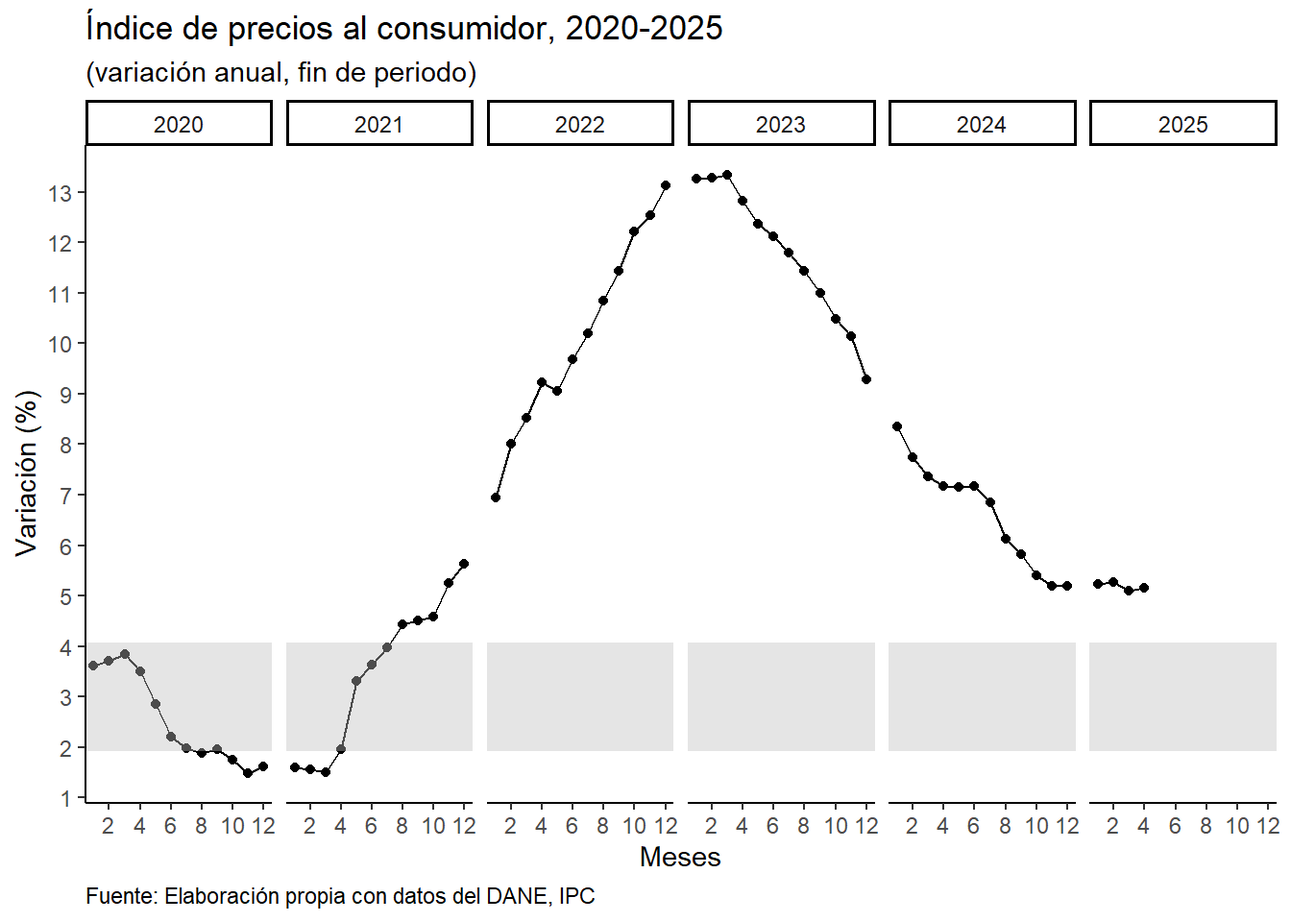
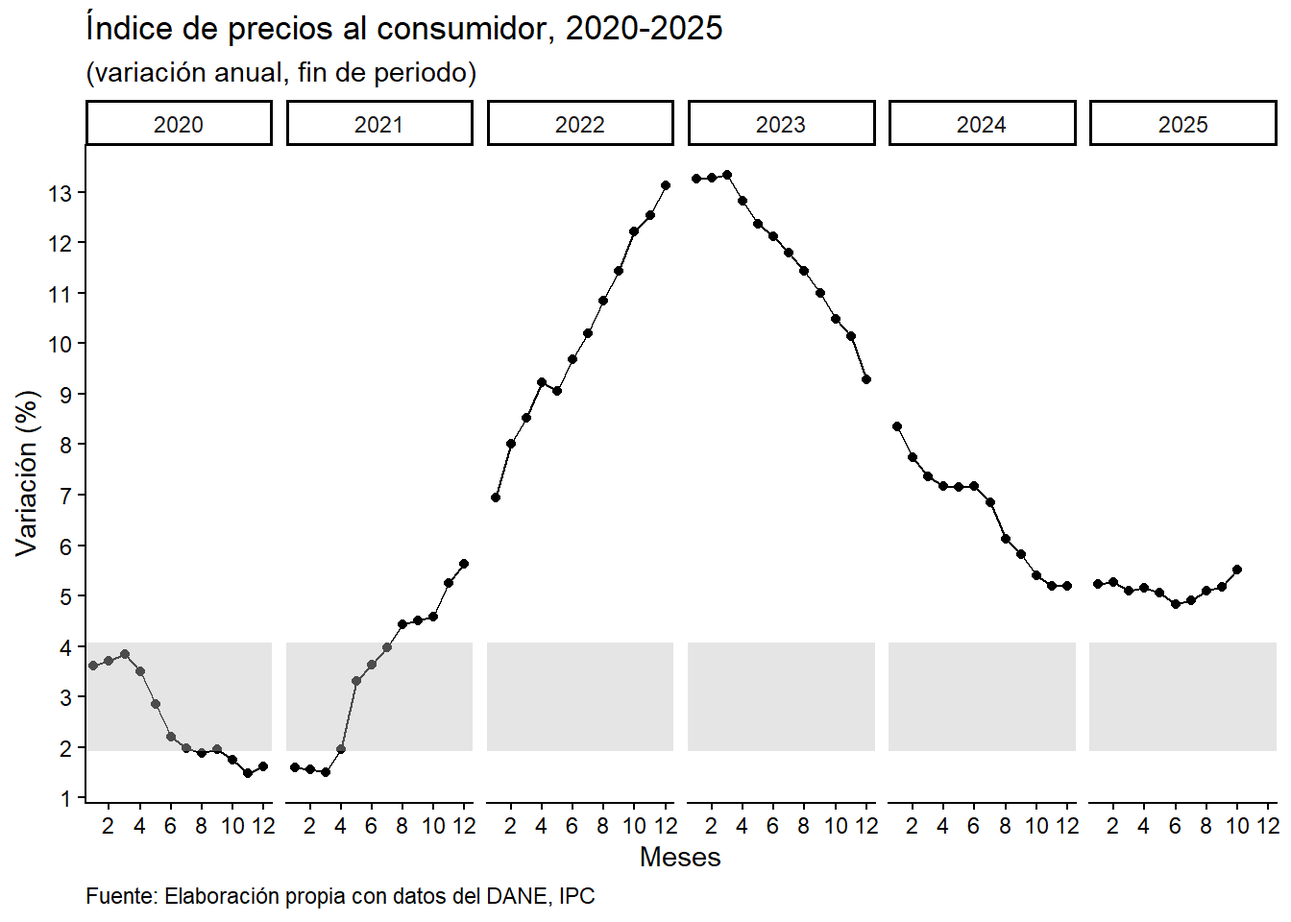
Publish site to docs/

diff --git a/docs/IPC_Colombia_anual.html b/docs/IPC_Colombia_anual.html
@@ -2,12 +2,12 @@
 <html xmlns="http://www.w3.org/1999/xhtml" lang="en" xml:lang="en"><head>
 
 <meta charset="utf-8">
-<meta name="generator" content="quarto-1.7.31">
+<meta name="generator" content="quarto-1.7.32">
 
 <meta name="viewport" content="width=device-width, initial-scale=1.0, user-scalable=yes">
 
 <meta name="author" content="Miguel Martinez">
-<meta name="dcterms.date" content="2025-06-04">
+<meta name="dcterms.date" content="2025-11-16">
 
 <title>CPI Colombia</title>
 <style>
@@ -72,7 +72,7 @@ pre > code.sourceCode > span > a:first-child::before { text-decoration: underlin
 <script src="site_libs/quarto-html/tippy.umd.min.js"></script>
 <script src="site_libs/quarto-html/anchor.min.js"></script>
 <link href="site_libs/quarto-html/tippy.css" rel="stylesheet">
-<link href="site_libs/quarto-html/quarto-syntax-highlighting-e1a5c8363afafaef2c763b6775fbf3ca.css" rel="stylesheet" id="quarto-text-highlighting-styles">
+<link href="site_libs/quarto-html/quarto-syntax-highlighting-37eea08aefeeee20ff55810ff984fec1.css" rel="stylesheet" id="quarto-text-highlighting-styles">
 <script src="site_libs/bootstrap/bootstrap.min.js"></script>
 <link href="site_libs/bootstrap/bootstrap-icons.css" rel="stylesheet">
 <link href="site_libs/bootstrap/bootstrap-dfb324f25d9b1687192fa8be62ac8f9c.min.css" rel="stylesheet" append-hash="true" id="quarto-bootstrap" data-mode="light">
@@ -156,7 +156,7 @@ pre > code.sourceCode > span > a:first-child::before { text-decoration: underlin
     <div>
     <div class="quarto-title-meta-heading">Published</div>
     <div class="quarto-title-meta-contents">
-      <p class="date">June 4, 2025</p>
+      <p class="date">November 16, 2025</p>
     </div>
   </div>
   
@@ -172,7 +172,8 @@ pre > code.sourceCode > span > a:first-child::before { text-decoration: underlin
 <p>The first step is to load the following libraries:</p>
 <div class="cell">
 <div class="sourceCode cell-code" id="cb1"><pre class="sourceCode r code-with-copy"><code class="sourceCode r"><span id="cb1-1"><a href="#cb1-1" aria-hidden="true" tabindex="-1"></a><span class="fu">library</span>(readxl)</span>
-<span id="cb1-2"><a href="#cb1-2" aria-hidden="true" tabindex="-1"></a><span class="fu">library</span>(tidyverse)</span></code><button title="Copy to Clipboard" class="code-copy-button"><i class="bi"></i></button></pre></div>
+<span id="cb1-2"><a href="#cb1-2" aria-hidden="true" tabindex="-1"></a><span class="fu">library</span>(tidyverse)</span>
+<span id="cb1-3"><a href="#cb1-3" aria-hidden="true" tabindex="-1"></a><span class="fu">library</span>(janitor)</span></code><button title="Copy to Clipboard" class="code-copy-button"><i class="bi"></i></button></pre></div>
 </div>
 <section id="load-data" class="level2">
 <h2 class="anchored" data-anchor-id="load-data">Load data</h2>
@@ -180,16 +181,16 @@ pre > code.sourceCode > span > a:first-child::before { text-decoration: underlin
 <div class="cell">
 <div class="sourceCode cell-code" id="cb2"><pre class="sourceCode r code-with-copy"><code class="sourceCode r"><span id="cb2-1"><a href="#cb2-1" aria-hidden="true" tabindex="-1"></a><span class="co"># Total inflation</span></span>
 <span id="cb2-2"><a href="#cb2-2" aria-hidden="true" tabindex="-1"></a></span>
-<span id="cb2-3"><a href="#cb2-3" aria-hidden="true" tabindex="-1"></a>df1 <span class="ot">=</span> readxl<span class="sc">::</span><span class="fu">read_excel</span>(<span class="st">"anex-IPC-Indices-abr2025.xlsx"</span>,</span>
+<span id="cb2-3"><a href="#cb2-3" aria-hidden="true" tabindex="-1"></a>df1 <span class="ot">=</span> readxl<span class="sc">::</span><span class="fu">read_excel</span>(<span class="st">"anex-IPC-Indices-oct2025.xlsx"</span>,</span>
 <span id="cb2-4"><a href="#cb2-4" aria-hidden="true" tabindex="-1"></a>                         <span class="at">sheet =</span> <span class="st">"IndicesIPC"</span>,</span>
 <span id="cb2-5"><a href="#cb2-5" aria-hidden="true" tabindex="-1"></a>                         <span class="at">range =</span> <span class="st">"A9:X21"</span>,</span>
 <span id="cb2-6"><a href="#cb2-6" aria-hidden="true" tabindex="-1"></a>                         <span class="at">col_names =</span> <span class="cn">TRUE</span>)</span>
 <span id="cb2-7"><a href="#cb2-7" aria-hidden="true" tabindex="-1"></a></span>
 <span id="cb2-8"><a href="#cb2-8" aria-hidden="true" tabindex="-1"></a><span class="co"># Core inflation</span></span>
 <span id="cb2-9"><a href="#cb2-9" aria-hidden="true" tabindex="-1"></a></span>
-<span id="cb2-10"><a href="#cb2-10" aria-hidden="true" tabindex="-1"></a>df2 <span class="ot">=</span> readxl<span class="sc">::</span><span class="fu">read_excel</span>(<span class="st">"anex-IPC-sinAlimentosRegulados-mar2025.xlsx"</span>,</span>
+<span id="cb2-10"><a href="#cb2-10" aria-hidden="true" tabindex="-1"></a>df2 <span class="ot">=</span> readxl<span class="sc">::</span><span class="fu">read_excel</span>(<span class="st">"anex-IPC-sinAlimentosRegulados-sep2025.xlsx"</span>,</span>
 <span id="cb2-11"><a href="#cb2-11" aria-hidden="true" tabindex="-1"></a>                         <span class="at">sheet =</span> <span class="st">"2"</span>,</span>
-<span id="cb2-12"><a href="#cb2-12" aria-hidden="true" tabindex="-1"></a>                         <span class="at">range =</span> <span class="st">"A7:F83"</span>,</span>
+<span id="cb2-12"><a href="#cb2-12" aria-hidden="true" tabindex="-1"></a>                         <span class="at">range =</span> <span class="st">"A7:F89"</span>,</span>
 <span id="cb2-13"><a href="#cb2-13" aria-hidden="true" tabindex="-1"></a>                         <span class="at">col_names =</span> <span class="cn">TRUE</span>)</span></code><button title="Copy to Clipboard" class="code-copy-button"><i class="bi"></i></button></pre></div>
 </div>
 </section>
@@ -200,10 +201,11 @@ pre > code.sourceCode > span > a:first-child::before { text-decoration: underlin
 <span id="cb3-2"><a href="#cb3-2" aria-hidden="true" tabindex="-1"></a></span>
 <span id="cb3-3"><a href="#cb3-3" aria-hidden="true" tabindex="-1"></a>df2 <span class="ot">=</span> df2[<span class="sc">-</span><span class="fu">c</span>(<span class="dv">1</span><span class="sc">:</span><span class="dv">12</span>), ] <span class="sc">|&gt;</span></span>
 <span id="cb3-4"><a href="#cb3-4" aria-hidden="true" tabindex="-1"></a>  dplyr<span class="sc">::</span><span class="fu">rename</span>(</span>
-<span id="cb3-5"><a href="#cb3-5" aria-hidden="true" tabindex="-1"></a>    <span class="st">`</span><span class="at">Variacion Mensual</span><span class="st">`</span> <span class="ot">=</span> <span class="dv">4</span>,</span>
-<span id="cb3-6"><a href="#cb3-6" aria-hidden="true" tabindex="-1"></a>    <span class="st">`</span><span class="at">Variacion Año corrido</span><span class="st">`</span> <span class="ot">=</span> <span class="dv">5</span>,</span>
-<span id="cb3-7"><a href="#cb3-7" aria-hidden="true" tabindex="-1"></a>    <span class="st">`</span><span class="at">Variacion Anual</span><span class="st">`</span> <span class="ot">=</span> <span class="dv">6</span>) <span class="sc">|&gt;</span> </span>
-<span id="cb3-8"><a href="#cb3-8" aria-hidden="true" tabindex="-1"></a>  dplyr<span class="sc">::</span><span class="fu">mutate_at</span>(<span class="fu">vars</span>(<span class="dv">4</span><span class="sc">:</span><span class="dv">6</span>), as.numeric)</span></code><button title="Copy to Clipboard" class="code-copy-button"><i class="bi"></i></button></pre></div>
+<span id="cb3-5"><a href="#cb3-5" aria-hidden="true" tabindex="-1"></a>    <span class="at">variacion_mensual =</span> <span class="dv">4</span>,</span>
+<span id="cb3-6"><a href="#cb3-6" aria-hidden="true" tabindex="-1"></a>    <span class="at">variacion_ano_corrido =</span> <span class="dv">5</span>,</span>
+<span id="cb3-7"><a href="#cb3-7" aria-hidden="true" tabindex="-1"></a>    <span class="at">variacion_anual =</span> <span class="dv">6</span>) <span class="sc">|&gt;</span></span>
+<span id="cb3-8"><a href="#cb3-8" aria-hidden="true" tabindex="-1"></a>  janitor<span class="sc">::</span><span class="fu">clean_names</span>() <span class="sc">|&gt;</span></span>
+<span id="cb3-9"><a href="#cb3-9" aria-hidden="true" tabindex="-1"></a>  dplyr<span class="sc">::</span><span class="fu">mutate_at</span>(<span class="fu">vars</span>(<span class="dv">4</span><span class="sc">:</span><span class="dv">6</span>), as.numeric)</span></code><button title="Copy to Clipboard" class="code-copy-button"><i class="bi"></i></button></pre></div>
 </div>
 </section>
 <section id="reshape-and-dtype-transformation" class="level2">
@@ -212,13 +214,14 @@ pre > code.sourceCode > span > a:first-child::before { text-decoration: underlin
 <div class="cell">
 <div class="sourceCode cell-code" id="cb4"><pre class="sourceCode r code-with-copy"><code class="sourceCode r"><span id="cb4-1"><a href="#cb4-1" aria-hidden="true" tabindex="-1"></a>df1 <span class="ot">=</span> df1 <span class="sc">|&gt;</span> </span>
 <span id="cb4-2"><a href="#cb4-2" aria-hidden="true" tabindex="-1"></a>  tidyr<span class="sc">::</span><span class="fu">pivot_longer</span>(<span class="at">cols =</span> <span class="st">`</span><span class="at">2003</span><span class="st">`</span><span class="sc">:</span><span class="st">`</span><span class="at">2025</span><span class="st">`</span>,</span>
-<span id="cb4-3"><a href="#cb4-3" aria-hidden="true" tabindex="-1"></a>                      <span class="at">names_to =</span> <span class="st">"Año"</span>) <span class="sc">|&gt;</span> </span>
-<span id="cb4-4"><a href="#cb4-4" aria-hidden="true" tabindex="-1"></a>  dplyr<span class="sc">::</span><span class="fu">mutate_at</span>(<span class="fu">vars</span>(Año), as.numeric)</span>
-<span id="cb4-5"><a href="#cb4-5" aria-hidden="true" tabindex="-1"></a></span>
-<span id="cb4-6"><a href="#cb4-6" aria-hidden="true" tabindex="-1"></a>df1</span></code><button title="Copy to Clipboard" class="code-copy-button"><i class="bi"></i></button></pre></div>
+<span id="cb4-3"><a href="#cb4-3" aria-hidden="true" tabindex="-1"></a>                      <span class="at">names_to =</span> <span class="st">"ano"</span>) <span class="sc">|&gt;</span></span>
+<span id="cb4-4"><a href="#cb4-4" aria-hidden="true" tabindex="-1"></a>  janitor<span class="sc">::</span><span class="fu">clean_names</span>() <span class="sc">|&gt;</span></span>
+<span id="cb4-5"><a href="#cb4-5" aria-hidden="true" tabindex="-1"></a>  dplyr<span class="sc">::</span><span class="fu">mutate_at</span>(<span class="fu">vars</span>(ano), as.numeric)</span>
+<span id="cb4-6"><a href="#cb4-6" aria-hidden="true" tabindex="-1"></a></span>
+<span id="cb4-7"><a href="#cb4-7" aria-hidden="true" tabindex="-1"></a>df1</span></code><button title="Copy to Clipboard" class="code-copy-button"><i class="bi"></i></button></pre></div>
 <div class="cell-output cell-output-stdout">
 <pre><code># A tibble: 276 × 3
-   Mes     Año value
+   mes     ano value
    &lt;chr&gt; &lt;dbl&gt; &lt;dbl&gt;
  1 Enero  2003  50.4
  2 Enero  2004  53.5
@@ -250,25 +253,25 @@ pre > code.sourceCode > span > a:first-child::before { text-decoration: underlin
 <div class="sourceCode cell-code" id="cb7"><pre class="sourceCode r code-with-copy"><code class="sourceCode r"><span id="cb7-1"><a href="#cb7-1" aria-hidden="true" tabindex="-1"></a>data <span class="ot">=</span> df1 <span class="sc">|&gt;</span></span>
 <span id="cb7-2"><a href="#cb7-2" aria-hidden="true" tabindex="-1"></a>  tidyr<span class="sc">::</span><span class="fu">drop_na</span>() <span class="sc">|&gt;</span> </span>
 <span id="cb7-3"><a href="#cb7-3" aria-hidden="true" tabindex="-1"></a>  dplyr<span class="sc">::</span><span class="fu">left_join</span>(df2,</span>
-<span id="cb7-4"><a href="#cb7-4" aria-hidden="true" tabindex="-1"></a>                   <span class="at">by =</span> <span class="fu">join_by</span>(Año, Mes))</span>
+<span id="cb7-4"><a href="#cb7-4" aria-hidden="true" tabindex="-1"></a>                   <span class="at">by =</span> <span class="fu">join_by</span>(ano, mes))</span>
 <span id="cb7-5"><a href="#cb7-5" aria-hidden="true" tabindex="-1"></a></span>
 <span id="cb7-6"><a href="#cb7-6" aria-hidden="true" tabindex="-1"></a>data</span></code><button title="Copy to Clipboard" class="code-copy-button"><i class="bi"></i></button></pre></div>
 <div class="cell-output cell-output-stdout">
-<pre><code># A tibble: 260 × 7
-   Mes     Año value `Número Índice` `Variacion Mensual` `Variacion Año corrido`
-   &lt;chr&gt; &lt;dbl&gt; &lt;dbl&gt;           &lt;dbl&gt;               &lt;dbl&gt;                   &lt;dbl&gt;
- 1 Enero  2004  6.19              NA                  NA                      NA
- 2 Enero  2005  5.44              NA                  NA                      NA
- 3 Enero  2006  4.55              NA                  NA                      NA
- 4 Enero  2007  4.71              NA                  NA                      NA
- 5 Enero  2008  6.00              NA                  NA                      NA
- 6 Enero  2009  7.17              NA                  NA                      NA
- 7 Enero  2010  2.11              NA                  NA                      NA
- 8 Enero  2011  3.39              NA                  NA                      NA
- 9 Enero  2012  3.55              NA                  NA                      NA
-10 Enero  2013  1.99              NA                  NA                      NA
-# ℹ 250 more rows
-# ℹ 1 more variable: `Variacion Anual` &lt;dbl&gt;</code></pre>
+<pre><code># A tibble: 272 × 7
+   mes     ano value numero_indice variacion_mensual variacion_ano_corrido
+   &lt;chr&gt; &lt;dbl&gt; &lt;dbl&gt;         &lt;dbl&gt;             &lt;dbl&gt;                 &lt;dbl&gt;
+ 1 Enero  2004  6.19            NA                NA                    NA
+ 2 Enero  2005  5.44            NA                NA                    NA
+ 3 Enero  2006  4.55            NA                NA                    NA
+ 4 Enero  2007  4.71            NA                NA                    NA
+ 5 Enero  2008  6.00            NA                NA                    NA
+ 6 Enero  2009  7.17            NA                NA                    NA
+ 7 Enero  2010  2.11            NA                NA                    NA
+ 8 Enero  2011  3.39            NA                NA                    NA
+ 9 Enero  2012  3.55            NA                NA                    NA
+10 Enero  2013  1.99            NA                NA                    NA
+# ℹ 262 more rows
+# ℹ 1 more variable: variacion_anual &lt;dbl&gt;</code></pre>
 </div>
 </div>
 </section>
@@ -277,15 +280,15 @@ pre > code.sourceCode > span > a:first-child::before { text-decoration: underlin
 <p>As before, we are reshaping the data to the <em>long</em> or <em>stacked</em> format:</p>
 <div class="cell">
 <div class="sourceCode cell-code" id="cb9"><pre class="sourceCode r code-with-copy"><code class="sourceCode r"><span id="cb9-1"><a href="#cb9-1" aria-hidden="true" tabindex="-1"></a>data <span class="ot">=</span> data <span class="sc">|&gt;</span> </span>
-<span id="cb9-2"><a href="#cb9-2" aria-hidden="true" tabindex="-1"></a>  dplyr<span class="sc">::</span><span class="fu">select</span>(Mes, Año, value, <span class="st">`</span><span class="at">Variacion Anual</span><span class="st">`</span>) <span class="sc">|&gt;</span> </span>
+<span id="cb9-2"><a href="#cb9-2" aria-hidden="true" tabindex="-1"></a>  dplyr<span class="sc">::</span><span class="fu">select</span>(mes, ano, value, variacion_anual) <span class="sc">|&gt;</span> </span>
 <span id="cb9-3"><a href="#cb9-3" aria-hidden="true" tabindex="-1"></a>  dplyr<span class="sc">::</span><span class="fu">rename</span>(</span>
-<span id="cb9-4"><a href="#cb9-4" aria-hidden="true" tabindex="-1"></a>     <span class="at">Inflacion_total =</span> value,</span>
-<span id="cb9-5"><a href="#cb9-5" aria-hidden="true" tabindex="-1"></a>     <span class="at">Inflacion_core =</span> <span class="st">`</span><span class="at">Variacion Anual</span><span class="st">`</span>) <span class="sc">|&gt;</span> </span>
+<span id="cb9-4"><a href="#cb9-4" aria-hidden="true" tabindex="-1"></a>     <span class="at">inflacion_total =</span> value,</span>
+<span id="cb9-5"><a href="#cb9-5" aria-hidden="true" tabindex="-1"></a>     <span class="at">inflacion_core =</span> variacion_anual) <span class="sc">|&gt;</span> </span>
 <span id="cb9-6"><a href="#cb9-6" aria-hidden="true" tabindex="-1"></a>  tidyr<span class="sc">::</span><span class="fu">pivot_longer</span>(<span class="at">cols =</span> <span class="dv">3</span><span class="sc">:</span><span class="dv">4</span>,</span>
-<span id="cb9-7"><a href="#cb9-7" aria-hidden="true" tabindex="-1"></a>                      <span class="at">names_to =</span> <span class="st">"Inflation_type"</span>,</span>
+<span id="cb9-7"><a href="#cb9-7" aria-hidden="true" tabindex="-1"></a>                      <span class="at">names_to =</span> <span class="st">"inflation_type"</span>,</span>
 <span id="cb9-8"><a href="#cb9-8" aria-hidden="true" tabindex="-1"></a>                      <span class="at">values_to =</span> <span class="st">"value"</span>) <span class="sc">|&gt;</span> </span>
 <span id="cb9-9"><a href="#cb9-9" aria-hidden="true" tabindex="-1"></a>  dplyr<span class="sc">::</span><span class="fu">mutate</span>(</span>
-<span id="cb9-10"><a href="#cb9-10" aria-hidden="true" tabindex="-1"></a>    <span class="at">Mes =</span> <span class="fu">recode</span>(Mes,</span>
+<span id="cb9-10"><a href="#cb9-10" aria-hidden="true" tabindex="-1"></a>    <span class="at">mes =</span> <span class="fu">recode</span>(mes,</span>
 <span id="cb9-11"><a href="#cb9-11" aria-hidden="true" tabindex="-1"></a>                 <span class="st">"Enero"</span> <span class="ot">=</span> <span class="dv">01</span>, <span class="st">"Febrero"</span> <span class="ot">=</span> <span class="dv">02</span>,</span>
 <span id="cb9-12"><a href="#cb9-12" aria-hidden="true" tabindex="-1"></a>                 <span class="st">"Marzo"</span> <span class="ot">=</span> <span class="dv">03</span>, <span class="st">"Abril"</span> <span class="ot">=</span> <span class="dv">04</span>,</span>
 <span id="cb9-13"><a href="#cb9-13" aria-hidden="true" tabindex="-1"></a>                 <span class="st">"Mayo"</span> <span class="ot">=</span> <span class="dv">05</span>, <span class="st">"Junio"</span> <span class="ot">=</span> <span class="dv">06</span>,</span>
@@ -295,20 +298,20 @@ pre > code.sourceCode > span > a:first-child::before { text-decoration: underlin
 <span id="cb9-17"><a href="#cb9-17" aria-hidden="true" tabindex="-1"></a></span>
 <span id="cb9-18"><a href="#cb9-18" aria-hidden="true" tabindex="-1"></a>data</span></code><button title="Copy to Clipboard" class="code-copy-button"><i class="bi"></i></button></pre></div>
 <div class="cell-output cell-output-stdout">
-<pre><code># A tibble: 520 × 4
-     Mes   Año Inflation_type  value
+<pre><code># A tibble: 544 × 4
+     mes   ano inflation_type  value
    &lt;dbl&gt; &lt;dbl&gt; &lt;chr&gt;           &lt;dbl&gt;
- 1     1  2004 Inflacion_total  6.19
- 2     1  2004 Inflacion_core  NA   
- 3     1  2005 Inflacion_total  5.44
- 4     1  2005 Inflacion_core  NA   
- 5     1  2006 Inflacion_total  4.55
- 6     1  2006 Inflacion_core  NA   
- 7     1  2007 Inflacion_total  4.71
- 8     1  2007 Inflacion_core  NA   
- 9     1  2008 Inflacion_total  6.00
-10     1  2008 Inflacion_core  NA   
-# ℹ 510 more rows</code></pre>
+ 1     1  2004 inflacion_total  6.19
+ 2     1  2004 inflacion_core  NA   
+ 3     1  2005 inflacion_total  5.44
+ 4     1  2005 inflacion_core  NA   
+ 5     1  2006 inflacion_total  4.55
+ 6     1  2006 inflacion_core  NA   
+ 7     1  2007 inflacion_total  4.71
+ 8     1  2007 inflacion_core  NA   
+ 9     1  2008 inflacion_total  6.00
+10     1  2008 inflacion_core  NA   
+# ℹ 534 more rows</code></pre>
 </div>
 </div>
 </section>
@@ -318,7 +321,7 @@ pre > code.sourceCode > span > a:first-child::before { text-decoration: underlin
 <div class="sourceCode cell-code" id="cb11"><pre class="sourceCode r code-with-copy"><code class="sourceCode r"><span id="cb11-1"><a href="#cb11-1" aria-hidden="true" tabindex="-1"></a><span class="co"># We filter the data from 2020</span></span>
 <span id="cb11-2"><a href="#cb11-2" aria-hidden="true" tabindex="-1"></a></span>
 <span id="cb11-3"><a href="#cb11-3" aria-hidden="true" tabindex="-1"></a>data <span class="ot">=</span> data <span class="sc">|&gt;</span> </span>
-<span id="cb11-4"><a href="#cb11-4" aria-hidden="true" tabindex="-1"></a>  dplyr<span class="sc">::</span><span class="fu">filter</span>(Año <span class="sc">&gt;=</span> <span class="dv">2020</span>)</span></code><button title="Copy to Clipboard" class="code-copy-button"><i class="bi"></i></button></pre></div>
+<span id="cb11-4"><a href="#cb11-4" aria-hidden="true" tabindex="-1"></a>  dplyr<span class="sc">::</span><span class="fu">filter</span>(ano <span class="sc">&gt;=</span> <span class="dv">2020</span>)</span></code><button title="Copy to Clipboard" class="code-copy-button"><i class="bi"></i></button></pre></div>
 </div>
 </section>
 <section id="total-inflation" class="level2">
@@ -327,10 +330,10 @@ pre > code.sourceCode > span > a:first-child::before { text-decoration: underlin
 <div class="sourceCode cell-code" id="cb12"><pre class="sourceCode r code-with-copy"><code class="sourceCode r"><span id="cb12-1"><a href="#cb12-1" aria-hidden="true" tabindex="-1"></a><span class="co"># Before we need to rename, filter, and transform 'Mes' in df1</span></span>
 <span id="cb12-2"><a href="#cb12-2" aria-hidden="true" tabindex="-1"></a></span>
 <span id="cb12-3"><a href="#cb12-3" aria-hidden="true" tabindex="-1"></a>df1 <span class="ot">=</span> df1 <span class="sc">|&gt;</span> </span>
-<span id="cb12-4"><a href="#cb12-4" aria-hidden="true" tabindex="-1"></a>  dplyr<span class="sc">::</span><span class="fu">rename</span>(<span class="at">Inflacion_total =</span> value) <span class="sc">|&gt;</span> </span>
-<span id="cb12-5"><a href="#cb12-5" aria-hidden="true" tabindex="-1"></a>  dplyr<span class="sc">::</span><span class="fu">filter</span>(Año <span class="sc">&gt;=</span> <span class="dv">2020</span>) <span class="sc">|&gt;</span> </span>
+<span id="cb12-4"><a href="#cb12-4" aria-hidden="true" tabindex="-1"></a>  dplyr<span class="sc">::</span><span class="fu">rename</span>(<span class="at">inflacion_total =</span> value) <span class="sc">|&gt;</span> </span>
+<span id="cb12-5"><a href="#cb12-5" aria-hidden="true" tabindex="-1"></a>  dplyr<span class="sc">::</span><span class="fu">filter</span>(ano <span class="sc">&gt;=</span> <span class="dv">2020</span>) <span class="sc">|&gt;</span> </span>
 <span id="cb12-6"><a href="#cb12-6" aria-hidden="true" tabindex="-1"></a>  dplyr<span class="sc">::</span><span class="fu">mutate</span>(</span>
-<span id="cb12-7"><a href="#cb12-7" aria-hidden="true" tabindex="-1"></a>    <span class="at">Mes =</span> <span class="fu">recode</span>(Mes,</span>
+<span id="cb12-7"><a href="#cb12-7" aria-hidden="true" tabindex="-1"></a>    <span class="at">mes =</span> <span class="fu">recode</span>(mes,</span>
 <span id="cb12-8"><a href="#cb12-8" aria-hidden="true" tabindex="-1"></a>                 <span class="st">"Enero"</span> <span class="ot">=</span> <span class="dv">01</span>, <span class="st">"Febrero"</span> <span class="ot">=</span> <span class="dv">02</span>,</span>
 <span id="cb12-9"><a href="#cb12-9" aria-hidden="true" tabindex="-1"></a>                 <span class="st">"Marzo"</span> <span class="ot">=</span> <span class="dv">03</span>, <span class="st">"Abril"</span> <span class="ot">=</span> <span class="dv">04</span>,</span>
 <span id="cb12-10"><a href="#cb12-10" aria-hidden="true" tabindex="-1"></a>                 <span class="st">"Mayo"</span> <span class="ot">=</span> <span class="dv">05</span>, <span class="st">"Junio"</span> <span class="ot">=</span> <span class="dv">06</span>,</span>
@@ -342,11 +345,11 @@ pre > code.sourceCode > span > a:first-child::before { text-decoration: underlin
 <div class="sourceCode cell-code" id="cb13"><pre class="sourceCode r code-with-copy"><code class="sourceCode r"><span id="cb13-1"><a href="#cb13-1" aria-hidden="true" tabindex="-1"></a>shadedarea <span class="ot">&lt;-</span> <span class="dv">3</span>  <span class="co">#Targeting inflation by Colombian Central bank</span></span>
 <span id="cb13-2"><a href="#cb13-2" aria-hidden="true" tabindex="-1"></a></span>
 <span id="cb13-3"><a href="#cb13-3" aria-hidden="true" tabindex="-1"></a>df1 <span class="sc">|&gt;</span> </span>
-<span id="cb13-4"><a href="#cb13-4" aria-hidden="true" tabindex="-1"></a><span class="fu">ggplot</span>(<span class="fu">aes</span>(<span class="at">x =</span> Mes, <span class="at">y =</span> Inflacion_total)) <span class="sc">+</span></span>
+<span id="cb13-4"><a href="#cb13-4" aria-hidden="true" tabindex="-1"></a><span class="fu">ggplot</span>(<span class="fu">aes</span>(<span class="at">x =</span> mes, <span class="at">y =</span> inflacion_total)) <span class="sc">+</span></span>
 <span id="cb13-5"><a href="#cb13-5" aria-hidden="true" tabindex="-1"></a>  <span class="fu">geom_point</span>() <span class="sc">+</span></span>
 <span id="cb13-6"><a href="#cb13-6" aria-hidden="true" tabindex="-1"></a>  <span class="fu">geom_line</span>() <span class="sc">+</span></span>
 <span id="cb13-7"><a href="#cb13-7" aria-hidden="true" tabindex="-1"></a>  <span class="fu">geom_hline</span>(<span class="at">yintercept =</span> shadedarea, <span class="at">color =</span> <span class="st">"grey"</span>, <span class="at">lwd =</span> <span class="dv">20</span>, <span class="at">alpha =</span> <span class="fl">0.4</span>) <span class="sc">+</span></span>
-<span id="cb13-8"><a href="#cb13-8" aria-hidden="true" tabindex="-1"></a>  <span class="fu">facet_grid</span>( . <span class="sc">~</span> Año) <span class="sc">+</span></span>
+<span id="cb13-8"><a href="#cb13-8" aria-hidden="true" tabindex="-1"></a>  <span class="fu">facet_grid</span>( . <span class="sc">~</span> ano) <span class="sc">+</span></span>
 <span id="cb13-9"><a href="#cb13-9" aria-hidden="true" tabindex="-1"></a>  <span class="fu">scale_x_continuous</span>(<span class="at">breaks =</span> <span class="fu">seq</span>(<span class="dv">0</span>,<span class="dv">12</span>, <span class="at">by=</span><span class="dv">2</span>)) <span class="sc">+</span></span>
 <span id="cb13-10"><a href="#cb13-10" aria-hidden="true" tabindex="-1"></a>  <span class="fu">scale_y_continuous</span>(<span class="at">breaks =</span> <span class="fu">seq</span>(<span class="dv">0</span>,<span class="dv">15</span>, <span class="at">by=</span><span class="dv">1</span>)) <span class="sc">+</span></span>
 <span id="cb13-11"><a href="#cb13-11" aria-hidden="true" tabindex="-1"></a>  <span class="fu">theme_classic</span>() <span class="sc">+</span></span>
@@ -372,11 +375,11 @@ pre > code.sourceCode > span > a:first-child::before { text-decoration: underlin
 <div class="sourceCode cell-code" id="cb14"><pre class="sourceCode r code-with-copy"><code class="sourceCode r"><span id="cb14-1"><a href="#cb14-1" aria-hidden="true" tabindex="-1"></a><span class="co"># First we need to select, rename, filter, and transform 'Mes' in df2</span></span>
 <span id="cb14-2"><a href="#cb14-2" aria-hidden="true" tabindex="-1"></a></span>
 <span id="cb14-3"><a href="#cb14-3" aria-hidden="true" tabindex="-1"></a>df2 <span class="ot">=</span> df2 <span class="sc">|&gt;</span></span>
-<span id="cb14-4"><a href="#cb14-4" aria-hidden="true" tabindex="-1"></a>  dplyr<span class="sc">::</span><span class="fu">select</span>(Año, Mes, <span class="st">`</span><span class="at">Variacion Anual</span><span class="st">`</span>) <span class="sc">|&gt;</span> </span>
-<span id="cb14-5"><a href="#cb14-5" aria-hidden="true" tabindex="-1"></a>  dplyr<span class="sc">::</span><span class="fu">rename</span>(<span class="at">Inflacion_core =</span> <span class="st">`</span><span class="at">Variacion Anual</span><span class="st">`</span>) <span class="sc">|&gt;</span> </span>
-<span id="cb14-6"><a href="#cb14-6" aria-hidden="true" tabindex="-1"></a>  dplyr<span class="sc">::</span><span class="fu">filter</span>(Año <span class="sc">&gt;=</span> <span class="dv">2020</span>) <span class="sc">|&gt;</span> </span>
+<span id="cb14-4"><a href="#cb14-4" aria-hidden="true" tabindex="-1"></a>  dplyr<span class="sc">::</span><span class="fu">select</span>(ano, mes, variacion_anual) <span class="sc">|&gt;</span> </span>
+<span id="cb14-5"><a href="#cb14-5" aria-hidden="true" tabindex="-1"></a>  dplyr<span class="sc">::</span><span class="fu">rename</span>(<span class="at">inflacion_core =</span> variacion_anual) <span class="sc">|&gt;</span> </span>
+<span id="cb14-6"><a href="#cb14-6" aria-hidden="true" tabindex="-1"></a>  dplyr<span class="sc">::</span><span class="fu">filter</span>(ano <span class="sc">&gt;=</span> <span class="dv">2020</span>) <span class="sc">|&gt;</span> </span>
 <span id="cb14-7"><a href="#cb14-7" aria-hidden="true" tabindex="-1"></a>  dplyr<span class="sc">::</span><span class="fu">mutate</span>(</span>
-<span id="cb14-8"><a href="#cb14-8" aria-hidden="true" tabindex="-1"></a>    <span class="at">Mes =</span> <span class="fu">recode</span>(Mes,</span>
+<span id="cb14-8"><a href="#cb14-8" aria-hidden="true" tabindex="-1"></a>    <span class="at">mes =</span> <span class="fu">recode</span>(mes,</span>
 <span id="cb14-9"><a href="#cb14-9" aria-hidden="true" tabindex="-1"></a>                 <span class="st">"Enero"</span> <span class="ot">=</span> <span class="dv">01</span>, <span class="st">"Febrero"</span> <span class="ot">=</span> <span class="dv">02</span>,</span>
 <span id="cb14-10"><a href="#cb14-10" aria-hidden="true" tabindex="-1"></a>                 <span class="st">"Marzo"</span> <span class="ot">=</span> <span class="dv">03</span>, <span class="st">"Abril"</span> <span class="ot">=</span> <span class="dv">04</span>,</span>
 <span id="cb14-11"><a href="#cb14-11" aria-hidden="true" tabindex="-1"></a>                 <span class="st">"Mayo"</span> <span class="ot">=</span> <span class="dv">05</span>, <span class="st">"Junio"</span> <span class="ot">=</span> <span class="dv">06</span>,</span>
@@ -388,11 +391,11 @@ pre > code.sourceCode > span > a:first-child::before { text-decoration: underlin
 <div class="sourceCode cell-code" id="cb15"><pre class="sourceCode r code-with-copy"><code class="sourceCode r"><span id="cb15-1"><a href="#cb15-1" aria-hidden="true" tabindex="-1"></a>shadedarea <span class="ot">&lt;-</span> <span class="dv">3</span>  <span class="co">#Targeting inflation by Colombian Central bank</span></span>
 <span id="cb15-2"><a href="#cb15-2" aria-hidden="true" tabindex="-1"></a></span>
 <span id="cb15-3"><a href="#cb15-3" aria-hidden="true" tabindex="-1"></a>df2 <span class="sc">|&gt;</span> </span>
-<span id="cb15-4"><a href="#cb15-4" aria-hidden="true" tabindex="-1"></a><span class="fu">ggplot</span>(<span class="fu">aes</span>(<span class="at">x =</span> Mes, <span class="at">y =</span> Inflacion_core)) <span class="sc">+</span></span>
+<span id="cb15-4"><a href="#cb15-4" aria-hidden="true" tabindex="-1"></a><span class="fu">ggplot</span>(<span class="fu">aes</span>(<span class="at">x =</span> mes, <span class="at">y =</span> inflacion_core)) <span class="sc">+</span></span>
 <span id="cb15-5"><a href="#cb15-5" aria-hidden="true" tabindex="-1"></a>  <span class="fu">geom_point</span>() <span class="sc">+</span></span>
 <span id="cb15-6"><a href="#cb15-6" aria-hidden="true" tabindex="-1"></a>  <span class="fu">geom_line</span>() <span class="sc">+</span></span>
 <span id="cb15-7"><a href="#cb15-7" aria-hidden="true" tabindex="-1"></a>  <span class="fu">geom_hline</span>(<span class="at">yintercept =</span> shadedarea, <span class="at">color =</span> <span class="st">"grey"</span>, <span class="at">lwd =</span> <span class="dv">22</span>, <span class="at">alpha =</span> <span class="fl">0.4</span>) <span class="sc">+</span></span>
-<span id="cb15-8"><a href="#cb15-8" aria-hidden="true" tabindex="-1"></a>  <span class="fu">facet_grid</span>( . <span class="sc">~</span> Año) <span class="sc">+</span></span>
+<span id="cb15-8"><a href="#cb15-8" aria-hidden="true" tabindex="-1"></a>  <span class="fu">facet_grid</span>( . <span class="sc">~</span> ano) <span class="sc">+</span></span>
 <span id="cb15-9"><a href="#cb15-9" aria-hidden="true" tabindex="-1"></a>  <span class="fu">scale_x_continuous</span>(<span class="at">breaks =</span> <span class="fu">seq</span>(<span class="dv">0</span>,<span class="dv">12</span>, <span class="at">by=</span><span class="dv">2</span>)) <span class="sc">+</span></span>
 <span id="cb15-10"><a href="#cb15-10" aria-hidden="true" tabindex="-1"></a>  <span class="fu">scale_y_continuous</span>(<span class="at">breaks =</span> <span class="fu">seq</span>(<span class="dv">0</span>,<span class="dv">12</span>, <span class="at">by=</span><span class="dv">1</span>)) <span class="sc">+</span></span>
 <span id="cb15-11"><a href="#cb15-11" aria-hidden="true" tabindex="-1"></a>  <span class="fu">theme_classic</span>() <span class="sc">+</span></span>
@@ -418,11 +421,11 @@ pre > code.sourceCode > span > a:first-child::before { text-decoration: underlin
 <div class="sourceCode cell-code" id="cb16"><pre class="sourceCode r code-with-copy"><code class="sourceCode r"><span id="cb16-1"><a href="#cb16-1" aria-hidden="true" tabindex="-1"></a>shadedarea <span class="ot">&lt;-</span> <span class="dv">3</span>  <span class="co">#Targeting inflation by Colombian Central bank</span></span>
 <span id="cb16-2"><a href="#cb16-2" aria-hidden="true" tabindex="-1"></a></span>
 <span id="cb16-3"><a href="#cb16-3" aria-hidden="true" tabindex="-1"></a>data <span class="sc">|&gt;</span> </span>
-<span id="cb16-4"><a href="#cb16-4" aria-hidden="true" tabindex="-1"></a><span class="fu">ggplot</span>(<span class="fu">aes</span>(<span class="at">x =</span> Mes, <span class="at">y =</span> value, <span class="at">colour =</span> Inflation_type)) <span class="sc">+</span></span>
+<span id="cb16-4"><a href="#cb16-4" aria-hidden="true" tabindex="-1"></a><span class="fu">ggplot</span>(<span class="fu">aes</span>(<span class="at">x =</span> mes, <span class="at">y =</span> value, <span class="at">colour =</span> inflation_type)) <span class="sc">+</span></span>
 <span id="cb16-5"><a href="#cb16-5" aria-hidden="true" tabindex="-1"></a>  <span class="fu">geom_point</span>() <span class="sc">+</span></span>
 <span id="cb16-6"><a href="#cb16-6" aria-hidden="true" tabindex="-1"></a>  <span class="fu">geom_line</span>() <span class="sc">+</span></span>
 <span id="cb16-7"><a href="#cb16-7" aria-hidden="true" tabindex="-1"></a>  <span class="fu">geom_hline</span>(<span class="at">yintercept =</span> shadedarea, <span class="at">color =</span> <span class="st">"grey"</span>, <span class="at">lwd =</span> <span class="dv">16</span>, <span class="at">alpha =</span> <span class="fl">0.4</span>) <span class="sc">+</span></span>
-<span id="cb16-8"><a href="#cb16-8" aria-hidden="true" tabindex="-1"></a>  <span class="fu">facet_grid</span>( . <span class="sc">~</span> Año) <span class="sc">+</span></span>
+<span id="cb16-8"><a href="#cb16-8" aria-hidden="true" tabindex="-1"></a>  <span class="fu">facet_grid</span>( . <span class="sc">~</span> ano) <span class="sc">+</span></span>
 <span id="cb16-9"><a href="#cb16-9" aria-hidden="true" tabindex="-1"></a>  <span class="fu">scale_x_continuous</span>(<span class="at">breaks =</span> <span class="fu">seq</span>(<span class="dv">0</span>,<span class="dv">12</span>, <span class="at">by=</span><span class="dv">2</span>)) <span class="sc">+</span></span>
 <span id="cb16-10"><a href="#cb16-10" aria-hidden="true" tabindex="-1"></a>  <span class="fu">scale_y_continuous</span>(<span class="at">breaks =</span> <span class="fu">seq</span>(<span class="dv">0</span>,<span class="dv">14</span>, <span class="at">by=</span><span class="dv">1</span>)) <span class="sc">+</span></span>
 <span id="cb16-11"><a href="#cb16-11" aria-hidden="true" tabindex="-1"></a>  <span class="fu">theme_classic</span>() <span class="sc">+</span></span>
@@ -445,7 +448,7 @@ pre > code.sourceCode > span > a:first-child::before { text-decoration: underlin
 </section>
 <section id="conclusion" class="level2">
 <h2 class="anchored" data-anchor-id="conclusion">Conclusion</h2>
-<p>As you can see in the hard years of the pandemic (2020, 2021) the inflation measurements remained quite stable in the targeting inflation policy by the independent Colombian central bank: Banco de la República (<a href="https://www.banrep.gov.co/es/glosario/inflacion-objetivo">Banrep</a>) or even a few periods below the targeting (represented by the gray shaded area). Although the following years due to the rebound effect of the national economy, we are still observing high inflation in the goods and services of the economy. This is an ongoing concern because this not only affect households, but also companies, governments and other agents in the economy. In other hand, the Colombian Banrep board of directors are expecting the return of the targeting inflation in the year 2025 according to the <a href="https://www.banrep.gov.co/es/noticias/minutas-banrep-enero-2025">last minutes</a>.</p>
+<p>As you can see in the hard years of the pandemic (2020, 2021) the inflation measurements remained quite stable in the targeting inflation policy by the independent Colombian central bank: Banco de la República (<a href="https://www.banrep.gov.co/es/glosario/inflacion-objetivo">Banrep</a>) or even a few periods below the targeting (represented by the gray shaded area). Although the following years due to the rebound effect of the national economy, we are still observing high inflation in the goods and services of the economy. This is an ongoing concern because this not only affect households, but also companies, governments and other agents in the economy. In other hand, the Colombian Banrep board of directors are expecting the return of the targeting inflation in the year 2025 according to the <a href="https://www.banrep.gov.co/es/noticias/minutas-banrep-octubre-2025">last minutes</a>.</p>
 
 
 </section>

diff --git a/docs/site_libs/quarto-html/quarto-syntax-highlighting-37eea08aefeeee20ff55810ff984fec1.css b/docs/site_libs/quarto-html/quarto-syntax-highlighting-37eea08aefeeee20ff55810ff984fec1.css
@@ -233,4 +233,4 @@ code span.wa {
   content: "</";
 }
 
-/*# sourceMappingURL=c735b2cac6c846c1abc72f5ce1520814.css.map */
+/*# sourceMappingURL=27d3d809615f7771493d095567f04340.css.map */
